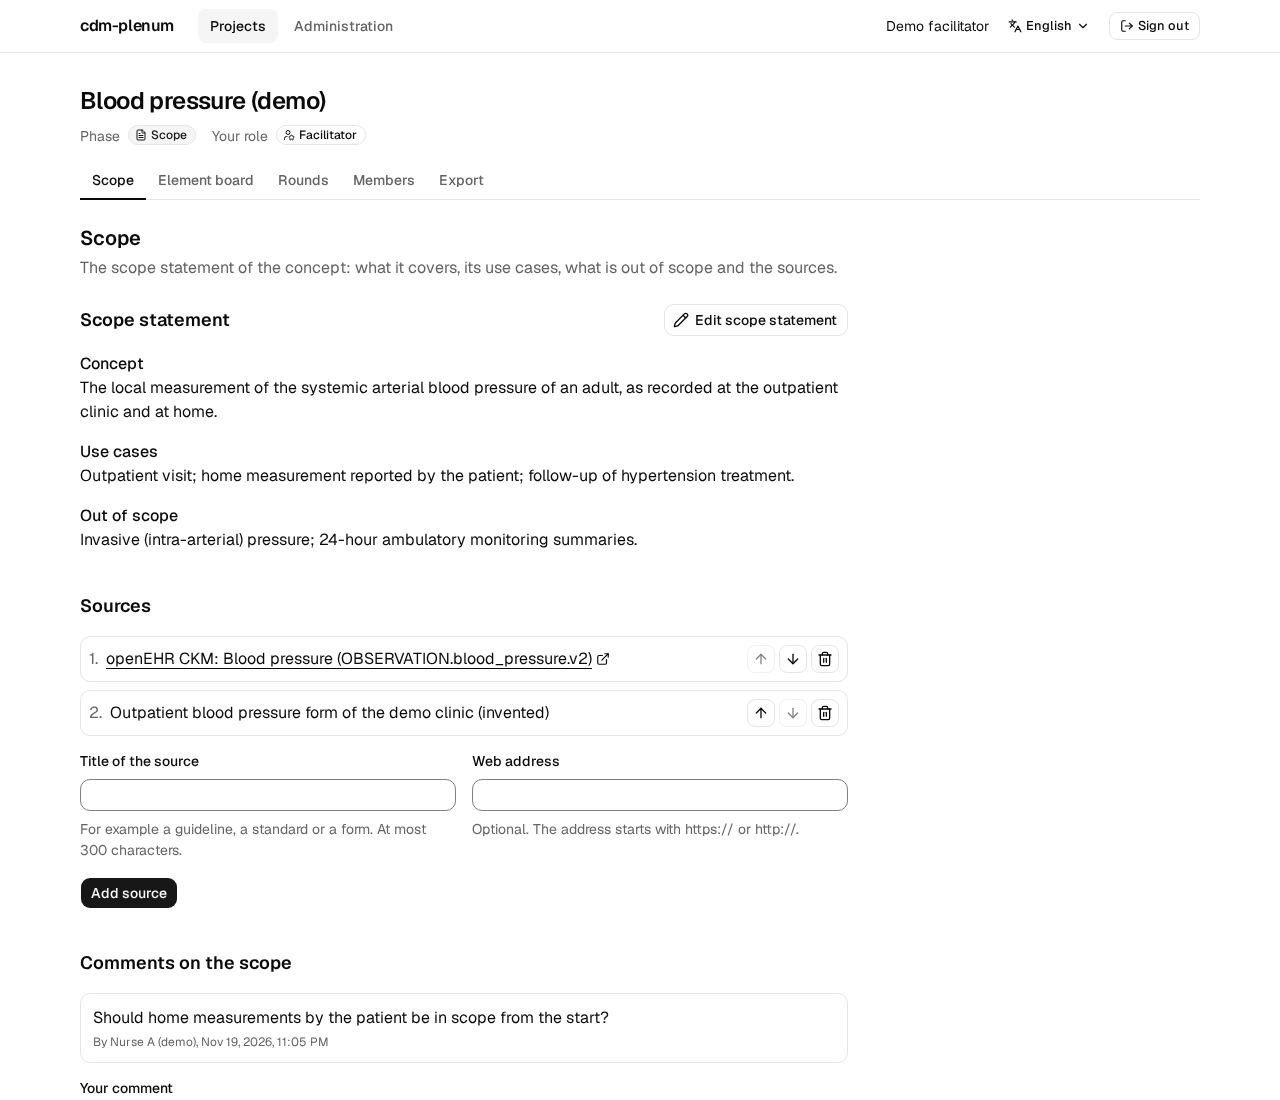
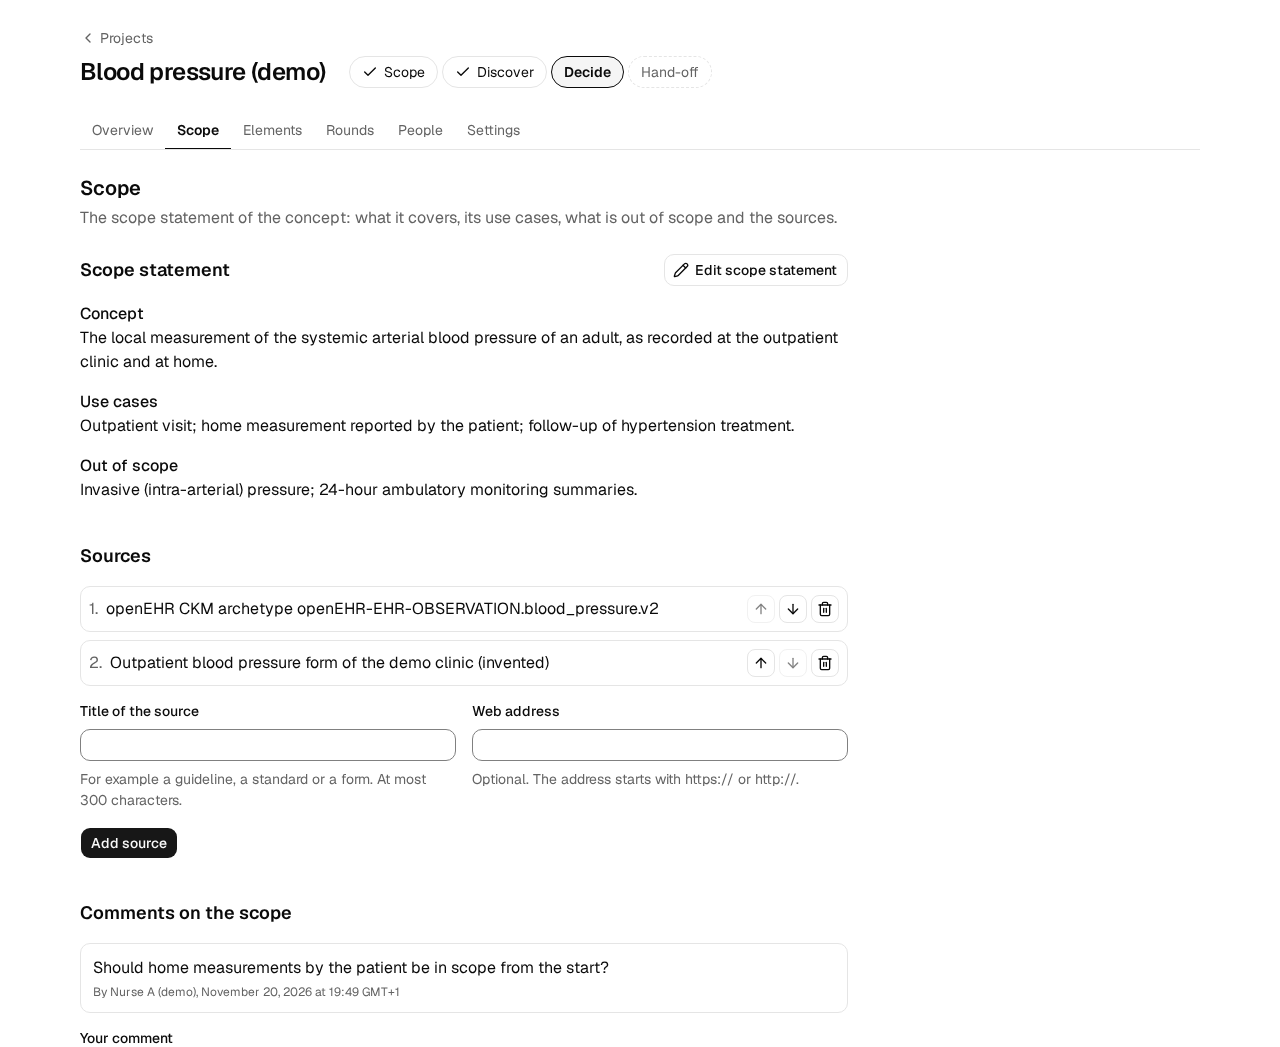
chore: release 0.2.0
Move the unreleased changes under 0.2.0, update the README screenshots and the manual walkthrough for the task-centred navigation.

diff --git a/docs/testing.md b/docs/testing.md
@@ -145,29 +145,33 @@ scripts/dev/compose.sh exec dev pnpm db:seed-demo --facilitator you@example.test
 Sign in at <http://localhost:3000/sign-in> and open the link from Mailpit at
 <http://localhost:8025>. Then work through these steps:
 
-1. **Scope, as facilitator:** open "Body temperature (demo)". The overview
-   shows the phase; the scope page shows the concept, use cases and three
-   comments. Move the project on to discover from the overview.
-2. **Discover:** open "Heart rate (demo)". Five participants have
-   brainstormed privately; the board shows their nine elements to you, with
-   "Heart rate" twice. Sign in as `nurse.c@example.test` in a private window:
-   the Brainstorm tab is empty for them and shows none of the others'
-   elements. Add one under each question, then reveal the board as
+1. **Scope, as facilitator:** open "Body temperature (demo)". It opens on
+   the Overview, with the checklist for the scope phase; the Scope tab shows
+   the concept, use cases and three comments. Move the project on to
+   discover with "Go on to Discover" at the end of the checklist.
+2. **Discover:** open "Heart rate (demo)". Five of eight participants have
+   brainstormed privately; the Overview counts them and offers "Send a
+   reminder", and the Elements tab shows you their nine elements, with
+   "Heart rate" twice. Sign in as `nurse.c@example.test` in a private
+   window: the project home asks them to add their elements and shows none
+   of the others'. Add one under each question, then reveal the board as
    facilitator and merge the duplicate.
-3. **Decide:** open "Blood pressure (demo)". On the board, look up a CKM
-   archetype (this calls the live CKM). Round 1 is closed: 5 elements in the
-   model, 1 not in the model and 2 without consensus. Round 2 is open.
-4. Open the members page. Eight participants sit in five stakeholder groups:
+3. **Decide:** open "Blood pressure (demo)". On the Elements tab, look up a
+   CKM archetype (this calls the live CKM). Round 1 is closed: 5 elements in
+   the model, 1 not in the model and 2 without consensus. Round 2 is open.
+4. Open the People tab. Eight participants sit in five stakeholder groups:
    Nursing, Primary care, General medicine, Terminology and Architecture.
    Invite a new address and open the invitation from Mailpit in a private
    window.
 5. **Hand-off:** open "Respiratory rate (demo)". Two rounds are closed;
    round 2 settled one of the two elements without consensus. Export the
-   elements as CSV and as a mind map.
+   elements as CSV and as a mind map from the Overview.
 6. **As participant,** sign in as `nurse.a@example.test` in a private window.
-   Each project's overview shows your task; rate the elements in round 2 of
-   Blood pressure. You should see no other participant's ratings, and no
-   names unless the facilitator turns that setting on.
+   The project list shows what waits per project. Open Blood pressure: its
+   home shows "Your turn: rate round 2" and what is decided so far. Rate the
+   two elements. You should see no other participant's ratings, and no
+   names unless the facilitator turns that setting on. "About this project"
+   at the bottom shows the groups and "Leave project".
 7. Switch the language to Dutch and repeat a few steps.
 
 To start over, drop the development database and run the commands again:

diff --git a/README.md b/README.md
@@ -78,32 +78,43 @@ modellers and the ratings for the study report.
 
 ## Screenshots
 
-The screenshots show the demo project, which `pnpm db:seed-demo` loads. Its
+The screenshots show the demo projects, which `pnpm db:seed-demo` loads. Their
 people and addresses are invented.
+
+A participant's project list says per project which phase it is in and what
+is waiting for them.
+
+![The project list of a participant: four demo projects, one per phase, each with its task](docs/screenshots/projects.png)
+
+Each project opens on its home page, with one "Your turn" card and, from the
+decide phase on, what the group has decided so far.
+
+![The home page of Blood pressure in the decide phase, with the card to rate round 2](docs/screenshots/home.png)
+
+A participant rates each element on a scale of 1 to 9. The question comes
+first; their own score from round 1 and the group's scores are one click
+away.
+
+![The rating card of round 2 for the element Mean arterial pressure](docs/screenshots/rating.png)
+
+The facilitator opens a project on its Overview: a checklist for the current
+phase that ends in the move to the next phase.
+
+![The Overview of Heart rate in the discover phase, with four checklist items](docs/screenshots/overview.png)
+
+On the element board the group collects candidate elements with their data
+type, cardinality and sources, and links them to CKM.
+
+![The element board of Blood pressure with eight elements](docs/screenshots/board.png)
+
+When a round closes, the facilitator sees per element the outcome under the
+consensus rule, the median and the distribution of the scores.
+
+![The results of round 1 of Blood pressure: five elements in the model, one not, two without consensus](docs/screenshots/round-results.png)
 
 The scope page holds the concept, use cases, sources and comments.
 
-![The scope page of the demo project, with the scope statement, two sources and a comment](docs/screenshots/scope.png)
-
-On the element board the group collects candidate elements with their data
-type, cardinality, sources and proposed values, and links them to CKM.
-
-![The element board with the elements Systolic and Diastolic](docs/screenshots/board.png)
-
-A participant rates each element on a scale of 1 to 9 and sees the outcome
-of the previous round.
-
-![The rating page of round 2, seen by a participant](docs/screenshots/rating.png)
-
-When a round closes, the facilitator sees per element the outcome under the
-consensus rule, the median and every score.
-
-![The results of round 1: Systolic and Diastolic included](docs/screenshots/round-results.png)
-
-The members page holds the stakeholder groups, the invitations and the
-setting for what participants see.
-
-![The members page with the stakeholder groups and their participants](docs/screenshots/members.png)
+![The scope page of Blood pressure, with the scope statement, two sources and a comment](docs/screenshots/scope.png)
 
 ## Run it locally
 

diff --git a/CHANGELOG.md b/CHANGELOG.md
@@ -9,6 +9,8 @@ the project uses [Semantic Versioning](https://semver.org/).
 
 ## [Unreleased]
 
+## [0.2.0] - 2026-11-20
+
 ### Added
 
 - A Settings page for the facilitator, the last tab of a project. It holds
@@ -344,5 +346,6 @@ rating rounds and the CSV and mind map exports.
   network address, so a class behind one address can sign in together.
 - A deactivated account cannot sign in, and its open sessions end at once.
 
-[Unreleased]: https://github.com/sophiedkk/cdm-plenum/compare/v0.1.0...HEAD
+[Unreleased]: https://github.com/sophiedkk/cdm-plenum/compare/v0.2.0...HEAD
+[0.2.0]: https://github.com/sophiedkk/cdm-plenum/compare/v0.1.0...v0.2.0
 [0.1.0]: https://github.com/sophiedkk/cdm-plenum/releases/tag/v0.1.0
